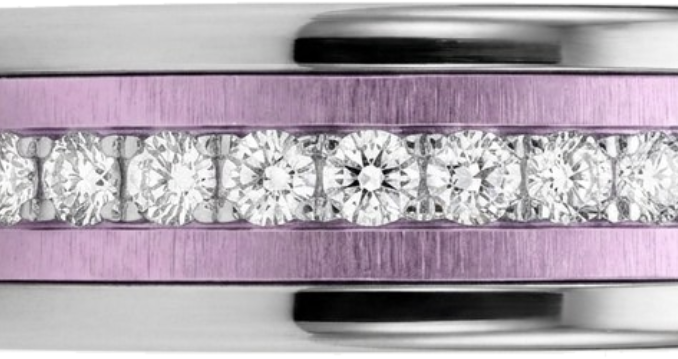
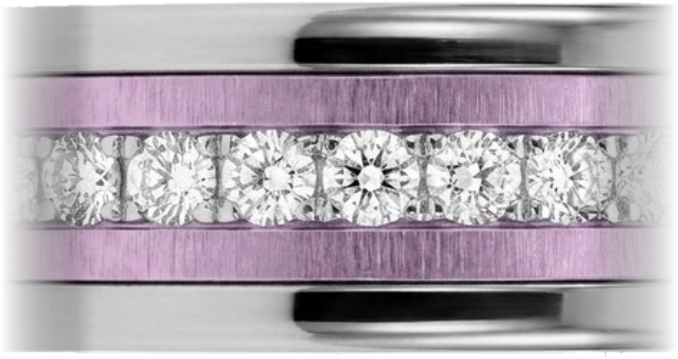
essayage: bouts de bague adoucis, pouce ajoute, reglages verifies sur une vraie main

Changed region(s): [[0.8673, 0.0, 1.0, 0.9805], [0.0, 0.0, 0.1239, 0.9805]]

diff --git a/app/essayage/route.ts b/app/essayage/route.ts
@@ -60,7 +60,7 @@ var msg = document.getElementById('msg');
 // réglages éprouvés sur une vraie main
 var POS = 0.40;     // où la bague se pose sur la première phalange
 var LARG = 0.55;    // sa longueur, par rapport à cette phalange
-var DOIGTS = [[5,6,'index'],[9,10,'majeur'],[13,14,'annulaire'],[17,18,'auriculaire']];
+var DOIGTS = [[2,3,'pouce'],[5,6,'index'],[9,10,'majeur'],[13,14,'annulaire'],[17,18,'auriculaire']];
 
 var bague = new Image();
 bague.src = '/essayage/chromaline.png';
